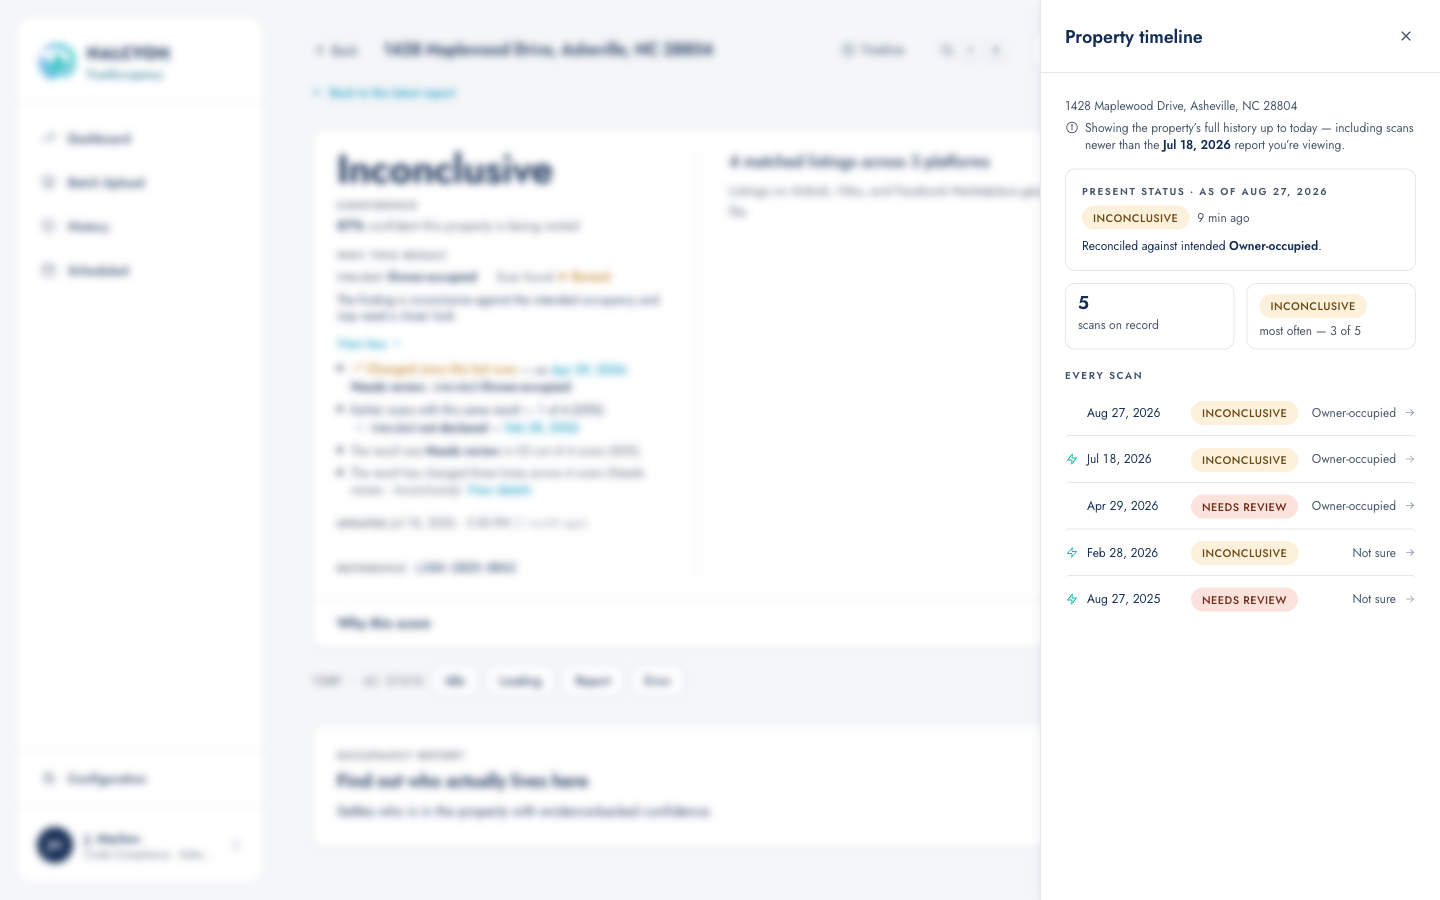
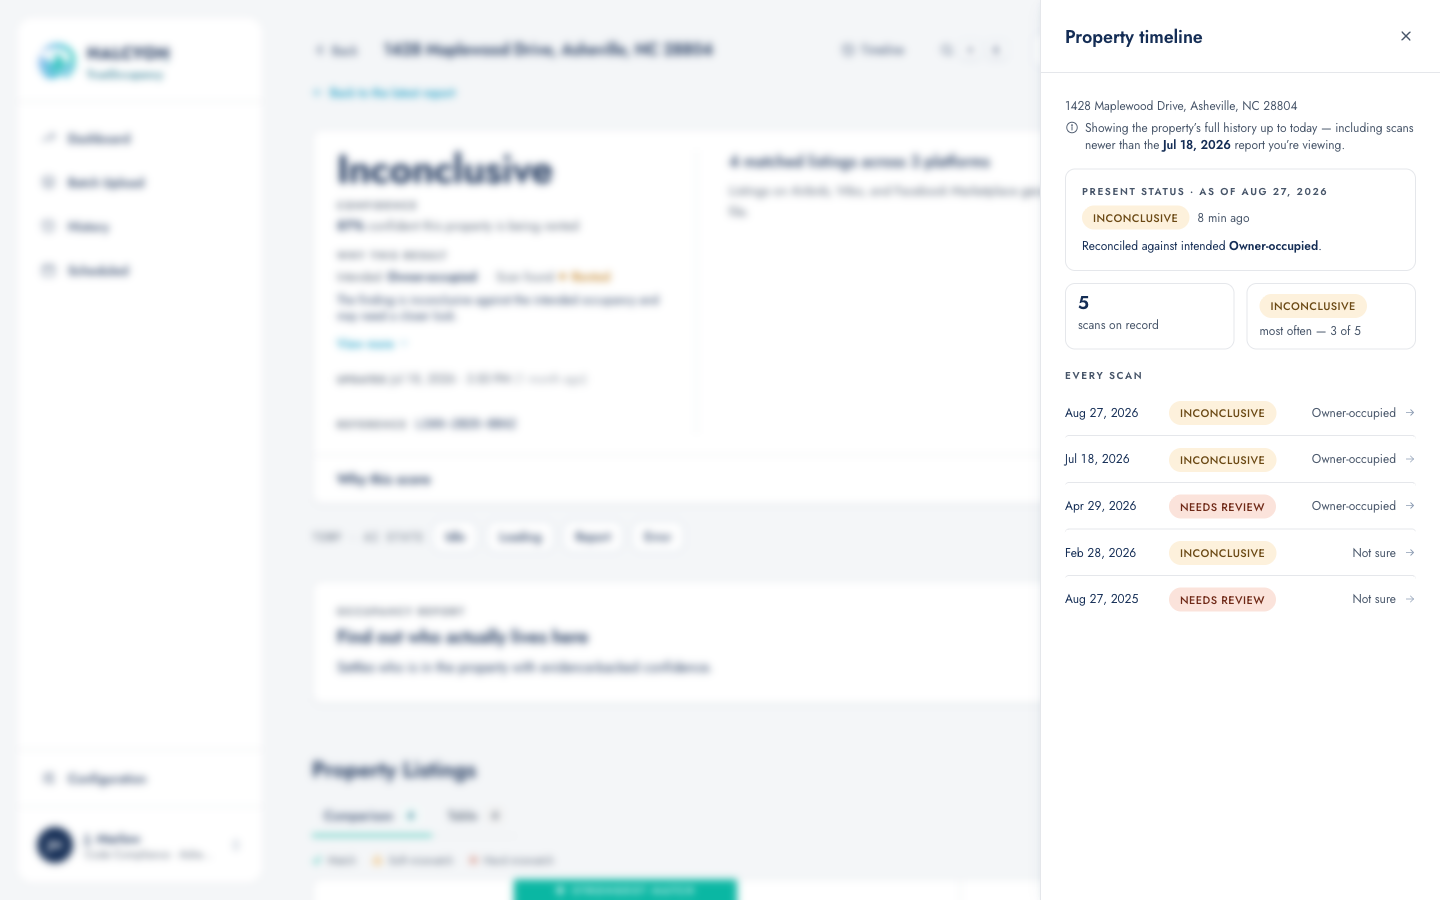
fix(result): drop the automation ⚡ marker from timeline-drawer rows (owner call)
The zap sat unexplained before the dates in the drawer (no legend there,
unlike Run history) and broke the date column's left edge. Run history
keeps its marker + legend; automated-vs-manual is still visible there.

diff --git a/src/components/result/PropertyTimelineDrawer.tsx b/src/components/result/PropertyTimelineDrawer.tsx
@@ -59,22 +59,6 @@ function DrawerScopeNote({ runs }: { runs: any[] }) {
   );
 }
 
-// The automated-run marker, mirrored from RunHistory so a re-scan started by
-// the schedule reads the same in both places. Fixed-width slot keeps dates on
-// one baseline whether or not a row is marked.
-function TimelineTriggerMark({ trigger }: { trigger?: 'manual' | 'automation' }) {
-  if (trigger !== 'automation') return <span className="inline-block w-3.5 shrink-0" aria-hidden />;
-  return (
-    <span
-      className="inline-flex shrink-0 w-3.5 justify-center text-brand [&>svg]:w-3 [&>svg]:h-3"
-      title="Automated run — triggered by the schedule on this property"
-    >
-      <Icon name="zap" size={12} aria-hidden />
-      <span className="sr-only">Automated run</span>
-    </span>
-  );
-}
-
 function PropertyTimelineDrawer({
   open,
   onClose,
@@ -216,7 +200,6 @@ function PropertyTimelineDrawer({
                         i > 0 ? 'border-t border-line' : ''
                       }`}
                     >
-                      <TimelineTriggerMark trigger={r.trigger} />
                       <span className="font-sans text-caption text-ink-2 tabular-nums w-24 shrink-0">
                         {formatUsDate(new Date(r.scannedAt || 0).toISOString())}
                       </span>
